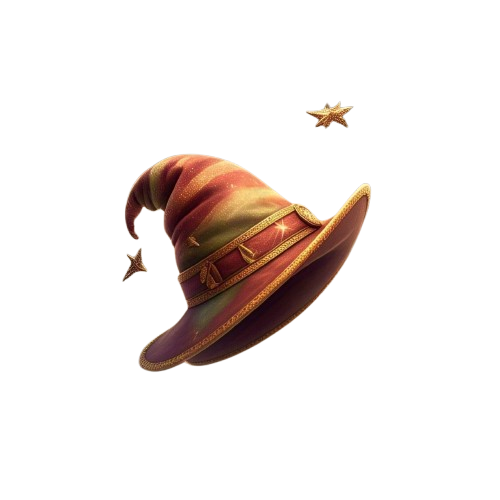
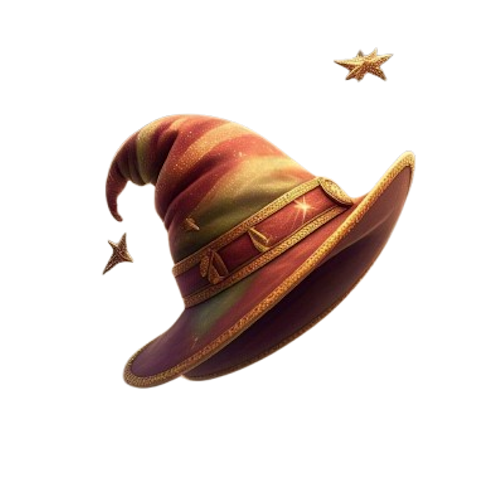
detalles de los productos que se muestran en las 'vitrinas'
se centraron y ya se ven bien

diff --git a/SortilegiosWeasley/src/components/productoSeccion.tsx b/SortilegiosWeasley/src/components/productoSeccion.tsx
@@ -15,7 +15,10 @@ function ProductoSeccion({ articulo, floating }: ProductoSeccionProps) {
 
     return (
         <div className= {floatingClase} >
-            <img src={imagen} alt={nombre} className="product-image" />
+            <div className="contenedor-imagen">
+                <img src={imagen} alt={nombre} className="product-image"/>
+            </div>
+
             <h1 className="product-title">{nombre}</h1>
             <p className="product-price">${precio}</p>
         </div>

diff --git a/SortilegiosWeasley/src/styles/productoSeccion.css b/SortilegiosWeasley/src/styles/productoSeccion.css
@@ -33,11 +33,15 @@
 	animation: float 6s ease-in-out infinite;
 }
 
-.product img {
+.contenedor-imagen {
     width: 100%;
+    background-color: #fdfdfd;
+}
+
+.product-image {
+    width: 200px;
     height: 200px;
-    object-fit: cover;
-    margin-bottom: 10px;
+    object-fit: fill;
     padding: 0;
     background-color: white;
 }
